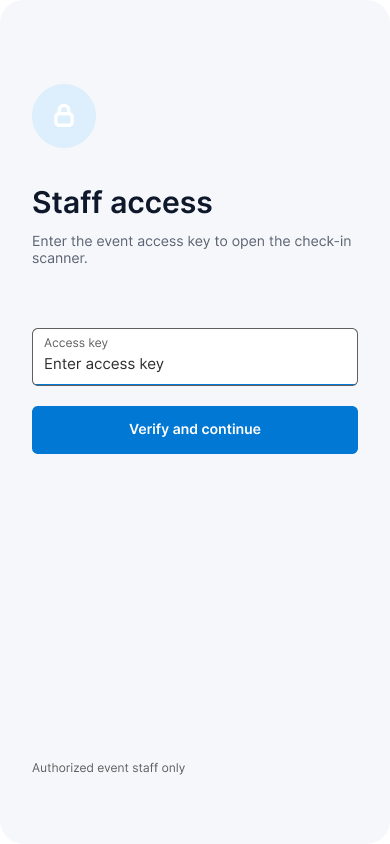
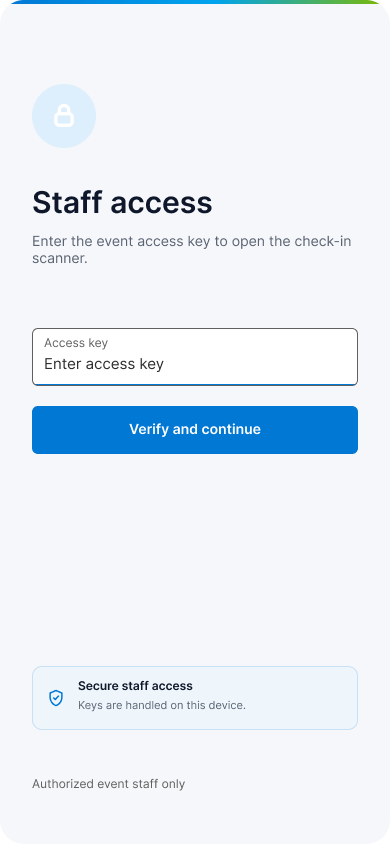
Elevate the Fluent identity and dark mode

diff --git a/app/src/main/java/io/github/mhmdwaelanwr/eventcheckin/ui/SettingsScreen.kt b/app/src/main/java/io/github/mhmdwaelanwr/eventcheckin/ui/SettingsScreen.kt
@@ -3,6 +3,7 @@ package io.github.mhmdwaelanwr.eventcheckin.ui
 import android.content.Intent
 import android.net.Uri
 import androidx.compose.foundation.BorderStroke
+import androidx.compose.foundation.background
 import androidx.compose.foundation.layout.*
 import androidx.compose.foundation.shape.RoundedCornerShape
 import androidx.compose.foundation.rememberScrollState
@@ -13,12 +14,16 @@ import androidx.compose.material3.*
 import androidx.compose.runtime.Composable
 import androidx.compose.ui.Alignment
 import androidx.compose.ui.Modifier
+import androidx.compose.ui.graphics.Brush
+import androidx.compose.ui.graphics.Color
 import androidx.compose.ui.platform.LocalContext
+import androidx.compose.ui.res.painterResource
 import androidx.compose.ui.text.font.FontWeight
 import androidx.compose.ui.unit.dp
 import io.github.mhmdwaelanwr.eventcheckin.viewmodel.AttendanceViewModel
 import io.github.mhmdwaelanwr.eventcheckin.viewmodel.DarkModeConfig
 import io.github.mhmdwaelanwr.eventcheckin.viewmodel.SettingsState
+import io.github.mhmdwaelanwr.eventcheckin.R
 
 @OptIn(ExperimentalMaterial3Api::class)
 @Composable
@@ -32,18 +37,30 @@ fun SettingsScreen(
 
     Scaffold(
         topBar = {
-            TopAppBar(
-                title = { Text("Settings", fontWeight = FontWeight.SemiBold) },
-                navigationIcon = {
-                    IconButton(onClick = onBack) {
-                        Icon(Icons.AutoMirrored.Filled.ArrowBack, contentDescription = "Back")
-                    }
-                },
-                colors = TopAppBarDefaults.topAppBarColors(
-                    containerColor = MaterialTheme.colorScheme.surface,
-                    titleContentColor = MaterialTheme.colorScheme.onSurface
+            Column {
+                Box(
+                    Modifier
+                        .fillMaxWidth()
+                        .height(4.dp)
+                        .background(
+                            Brush.horizontalGradient(
+                                listOf(Color(0xFF0078D4), Color(0xFF00A4EF), Color(0xFF7FBA00))
+                            )
+                        )
                 )
-            )
+                TopAppBar(
+                    title = { Text("Settings", fontWeight = FontWeight.SemiBold) },
+                    navigationIcon = {
+                        IconButton(onClick = onBack) {
+                            Icon(Icons.AutoMirrored.Filled.ArrowBack, contentDescription = "Back")
+                        }
+                    },
+                    colors = TopAppBarDefaults.topAppBarColors(
+                        containerColor = MaterialTheme.colorScheme.surface,
+                        titleContentColor = MaterialTheme.colorScheme.onSurface
+                    )
+                )
+            }
         }
     ) { innerPadding ->
         Column(
@@ -209,10 +226,11 @@ fun SettingsScreen(
                     color = MaterialTheme.colorScheme.onSurface
                 ) {
                     Box(contentAlignment = Alignment.Center) {
-                        Text(
-                            text = "</>",
-                            color = MaterialTheme.colorScheme.surface,
-                            fontWeight = FontWeight.SemiBold
+                        Icon(
+                            painter = painterResource(R.drawable.ic_github),
+                            contentDescription = null,
+                            tint = Color.Unspecified,
+                            modifier = Modifier.size(24.dp)
                         )
                     }
                 }

diff --git a/app/src/main/java/io/github/mhmdwaelanwr/eventcheckin/MainActivity.kt b/app/src/main/java/io/github/mhmdwaelanwr/eventcheckin/MainActivity.kt
@@ -254,11 +254,39 @@ fun AccessKeyDialog(onAuthorized: (isMaster: Boolean, keyUsed: String) -> Unit) 
                 }
 
         Spacer(Modifier.weight(1f))
+        Card(
+            modifier = Modifier.fillMaxWidth(),
+            shape = RoundedCornerShape(10.dp),
+            colors = CardDefaults.cardColors(containerColor = MaterialTheme.colorScheme.primaryContainer),
+            border = BorderStroke(1.dp, MaterialTheme.colorScheme.primary.copy(alpha = 0.22f))
+        ) {
+            Row(
+                modifier = Modifier.padding(horizontal = 14.dp, vertical = 12.dp),
+                verticalAlignment = Alignment.CenterVertically
+            ) {
+                Icon(
+                    Icons.Default.VerifiedUser,
+                    contentDescription = null,
+                    tint = MaterialTheme.colorScheme.primary,
+                    modifier = Modifier.size(20.dp)
+                )
+                Spacer(Modifier.width(12.dp))
+                Column {
+                    Text("Secure staff access", style = MaterialTheme.typography.labelLarge, fontWeight = FontWeight.SemiBold)
+                    Text(
+                        "Keys are handled on this device.",
+                        style = MaterialTheme.typography.bodySmall,
+                        color = MaterialTheme.colorScheme.onSurfaceVariant
+                    )
+                }
+            }
+        }
+        Spacer(Modifier.height(8.dp))
         Text(
             "Authorized event staff only",
             style = MaterialTheme.typography.bodySmall,
             color = MaterialTheme.colorScheme.onSurfaceVariant,
-            modifier = Modifier.padding(bottom = 40.dp)
+            modifier = Modifier.padding(bottom = 24.dp)
         )
     }
 }

diff --git a/app/src/main/java/io/github/mhmdwaelanwr/eventcheckin/ui/theme/Theme.kt b/app/src/main/java/io/github/mhmdwaelanwr/eventcheckin/ui/theme/Theme.kt
@@ -12,19 +12,26 @@ import androidx.compose.ui.unit.dp
 
 private val DarkColorScheme = darkColorScheme(
     primary = FluentBlueDark,
-    secondary = FluentGreen,
+    onPrimary = Color(0xFF002A3A),
+    primaryContainer = Color(0xFF153A4A),
+    onPrimaryContainer = Color(0xFFD9F2FF),
+    secondary = Color(0xFF92C353),
     error = Color(0xFFFF99A4),
-    background = FluentDarkBackground,
-    surface = FluentDarkSurface,
-    surfaceVariant = Color(0xFF333333),
-    onBackground = Color(0xFFF2F6FC),
-    onSurface = Color(0xFFF2F6FC),
-    onSurfaceVariant = Color(0xFFC7C7C7),
-    outline = Color(0xFF666666)
+    errorContainer = Color(0xFF5A1E22),
+    background = Color(0xFF18181B),
+    surface = Color(0xFF242427),
+    surfaceVariant = Color(0xFF303036),
+    onBackground = Color(0xFFF5F7FA),
+    onSurface = Color(0xFFF5F7FA),
+    onSurfaceVariant = Color(0xFFB9C0CA),
+    outline = Color(0xFF46464D),
+    outlineVariant = Color(0xFF35353A)
 )
 
 private val LightColorScheme = lightColorScheme(
     primary = FluentBlue,
+    primaryContainer = Color(0xFFEEF6FC),
+    onPrimaryContainer = Color(0xFF0F3A55),
     secondary = FluentGreen,
     error = FluentRed,
     background = FluentBackground,
@@ -34,7 +41,8 @@ private val LightColorScheme = lightColorScheme(
     onBackground = FluentInk,
     onSurface = FluentInk,
     onSurfaceVariant = FluentSecondary,
-    outline = FluentStroke
+    outline = FluentStroke,
+    outlineVariant = Color(0xFFE8EBEF)
 )
 
 private val FluentShapes = Shapes(

diff --git a/README.md b/README.md
@@ -25,6 +25,8 @@ Scan attendee QR codes, validate registrations through an HTTPS API, prevent acc
 |:---:|:---:|:---:|:---:|
 | <img src="docs/screenshots/access.png" width="220" alt="Staff access screen"> | <img src="docs/screenshots/scanner.png" width="220" alt="QR scanner screen"> | <img src="docs/screenshots/success.png" width="220" alt="Successful check-in screen"> | <img src="docs/screenshots/settings.png" width="220" alt="Station settings screen"> |
 
+<p align="center"><img src="docs/screenshots/settings-dark.png" width="220" alt="Station settings in dark mode"><br><sub>Purpose-built dark mode with layered surfaces and accessible contrast.</sub></p>
+
 The interface follows a **Microsoft Fluent-inspired** visual system adapted for Android: Microsoft Blue `#0078D4`, neutral layered surfaces, compact 6–12 dp radii, subtle elevation, clear one-pixel borders, and system sans-serif typography.
 
 ## Why this project exists
@@ -42,6 +44,7 @@ Event entrances need a fast tool with one job: confirm whether a registration is
 - Encrypted offline queue retried after authorized app start and the next successful online check-in.
 - Input trimming, control-character rejection, and length validation.
 - Staff access gate with local encrypted authorization state.
+- Clear on-device security guidance at the access gate.
 - System, light, and dark appearance preferences.
 - Optional haptic feedback after check-in results.
 - In-app open-source entry point for reviewing, learning from, and contributing to the project.
